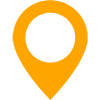
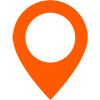
More style adjustments
* Adjusting space between switch and scale text
* Change pin icon color
* Creating scrollView area for weather list

diff --git a/src/components/WeatherList.js b/src/components/WeatherList.js
@@ -1,5 +1,5 @@
 import React, { Component } from 'react';
-import { View, StyleSheet, Text, Image } from 'react-native';
+import { View, StyleSheet, Text, Image, ScrollView } from 'react-native';
 
 import Weather from './Weather';
 
@@ -17,8 +17,11 @@ class WeatherList extends Component {
                 const date = new Date(item.applicable_date.replace(/-/g, '/'));
                 const month = date.getMonth() + 1;
 
+                const borderBottomColor = (key + 1) < weather.length ? '#ededed' : 'transparent';
+                const paddingBottom = marginBottom = (key + 1) < weather.length ? 4 : 0;
+
                 return (
-                    <View style={styles.body} key={key}>
+                    <View style={[styles.body, { borderBottomColor, paddingBottom, marginBottom }]} key={key}>
                         <Text style={styles.dateText}>
                             {this.formatDate(date.getDate())}/{this.formatDate(month)}
                         </Text>
@@ -35,9 +38,11 @@ class WeatherList extends Component {
 
     render() {
         return (
-            <View>
-                {this.renderWeatherList()}
-            </View>
+            <ScrollView>
+                <View style={styles.list}>
+                    {this.renderWeatherList()}
+                </View>
+            </ScrollView>
         );
     }
 }
@@ -48,17 +53,24 @@ const styles = StyleSheet.create({
         flexDirection: 'row',
         alignItems: 'center',
         justifyContent: 'space-between',
-        marginBottom: 4
+        borderBottomWidth: 1
+    },
+    list: {
+        borderColor: '#d5d5d5',
+        borderWidth: 2,
+        padding: 8,
     },
     icon: {
-        width: 30,
-        height: 30
+        width: 26,
+        height: 26
     },
     dateText: {
-        fontSize: 18
+        fontSize: 18,
+        color: '#436389'
     },
     weather: {
-        fontSize: 18
+        fontSize: 18,
+        color: '#436389'
     }
 });
 

diff --git a/App.js b/App.js
@@ -131,6 +131,7 @@ export default class App extends Component {
 						value={isFahrenheit}
 						trackColor={{ true: "#ffae82", false: null }}
 						_thumbColor="#ff5a00"
+						style={styles.switch}
 					/>
 				</View>
 			</View>
@@ -146,18 +147,20 @@ const styles = StyleSheet.create({
 	},
 	locationName: {
 		fontSize: 26,
-		textAlign: 'center'
+		textAlign: 'center',
+		fontWeight: '500',
+		color: '#ff5a00'
 	},
 	locationTemp: {
 		fontSize: 22,
-		textAlign: 'center'
+		textAlign: 'center',
+		color: '#436389'
 	},
 	locationContainer: {
 		minHeight: 80
 	},
 	mapContainer: {
 		flex: 0.8,
-		borderRadius: 5,
 		overflow: 'hidden',
 		backgroundColor: '#FFF'
 	},
@@ -170,11 +173,14 @@ const styles = StyleSheet.create({
 	},
 	switchContainer: {
 		flexDirection: 'row',
-		justifyContent: 'flex-start',
+		justifyContent: 'space-between',
 		alignItems: 'center'
 	},
+	switch: {
+		left: 14
+	},
 	scaleText: {
-		marginRight: 8,
-		fontSize: 16
+		fontSize: 16,
+		color: '#436389'
 	}
 });
